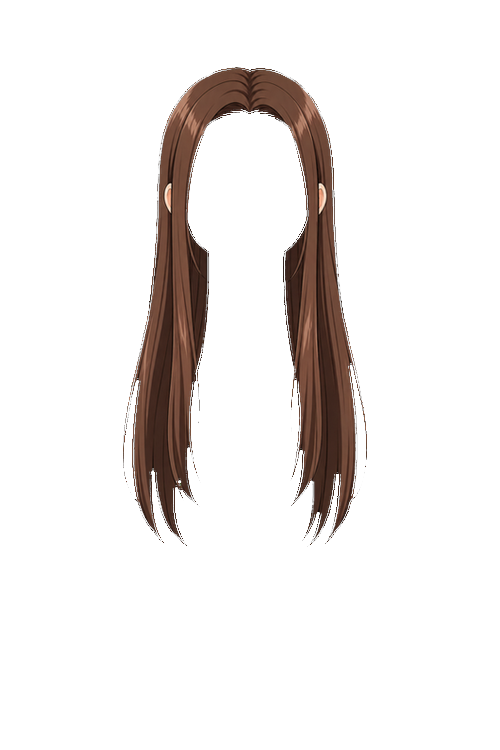
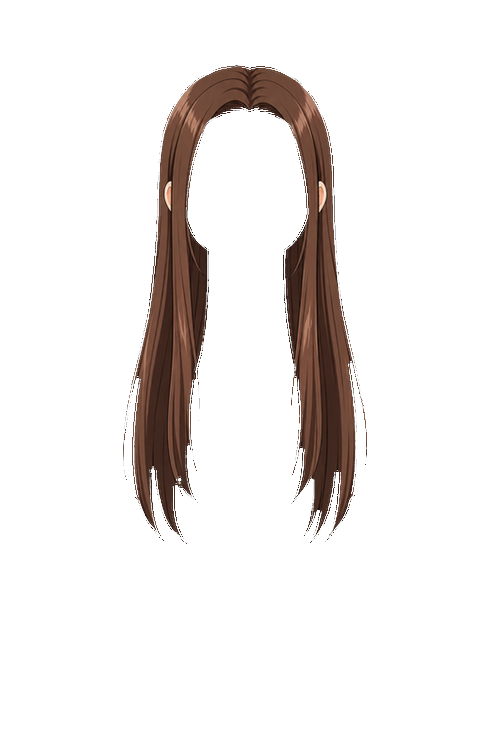
fix: ロングヘア2px上
Claude-Session: https://claude.ai/code/session_01XMvAfF4jxf9CbKyjmGTEy4

diff --git a/osewa.html b/osewa.html
@@ -809,7 +809,7 @@ var CLOTHES = [
 ];
 
 var HAIRS = [
-  { name: 'ロングヘア', img: 'doll_hair_1.png?v=11', color: '#8B5E3C', style: 'long' },
+  { name: 'ロングヘア', img: 'doll_hair_1.png?v=12', color: '#8B5E3C', style: 'long' },
   { name: 'ポニーテール', img: 'doll_hair_2.png?v=7', color: '#6B3A2A', style: 'pony' },
   { name: 'ツインテール', img: 'doll_hair_3.png?v=7', color: '#4A2512', style: 'twin' },
 ];